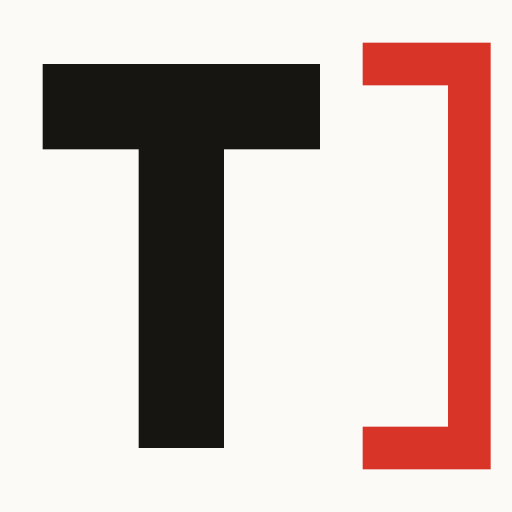
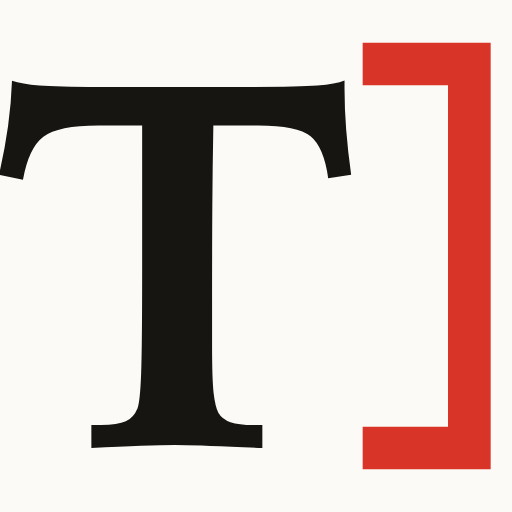
Unify Teachback wordmark typography

Changed region(s): [[0.0, 0.125, 0.6875, 0.875]]

diff --git a/scripts/render-brand-assets.ts b/scripts/render-brand-assets.ts
@@ -1,0 +1,62 @@
+import { chromium } from "@playwright/test";
+import { readFile } from "node:fs/promises";
+import { resolve } from "node:path";
+
+type RenderTarget = {
+  source: string;
+  output: string;
+  width: number;
+  height: number;
+};
+
+const projectRoot = resolve(import.meta.dir, "..");
+const targets: RenderTarget[] = [
+  {
+    source: "public/favicon.svg",
+    output: "public/apple-touch-icon.png",
+    width: 180,
+    height: 180,
+  },
+  {
+    source: "public/favicon.svg",
+    output: "public/icon-512.png",
+    width: 512,
+    height: 512,
+  },
+  {
+    source: "public/og.svg",
+    output: "public/og.png",
+    width: 1200,
+    height: 630,
+  },
+  {
+    source: "public/devpost-thumbnail.svg",
+    output: "public/devpost-thumbnail.png",
+    width: 1200,
+    height: 800,
+  },
+];
+
+const browser = await chromium.launch({ headless: true });
+
+try {
+  for (const target of targets) {
+    const page = await browser.newPage({
+      viewport: { width: target.width, height: target.height },
+      deviceScaleFactor: 1,
+    });
+    const svg = await readFile(resolve(projectRoot, target.source), "utf8");
+
+    await page.setContent(
+      `<style>html,body{margin:0;width:100%;height:100%;overflow:hidden}svg{display:block;width:100%;height:100%}</style>${svg}`,
+    );
+    await page.evaluate(() => document.fonts.ready);
+    await page.screenshot({
+      path: resolve(projectRoot, target.output),
+      omitBackground: true,
+    });
+    await page.close();
+  }
+} finally {
+  await browser.close();
+}

diff --git a/src/styles.css b/src/styles.css
@@ -83,7 +83,7 @@ a:focus-visible {
 }
 
 .brand {
-  font-family: Georgia, "Times New Roman", serif;
+  font-family: "Iowan Old Style", Baskerville, Georgia, serif;
   font-size: 40px;
   line-height: 44px;
   font-weight: 700;
